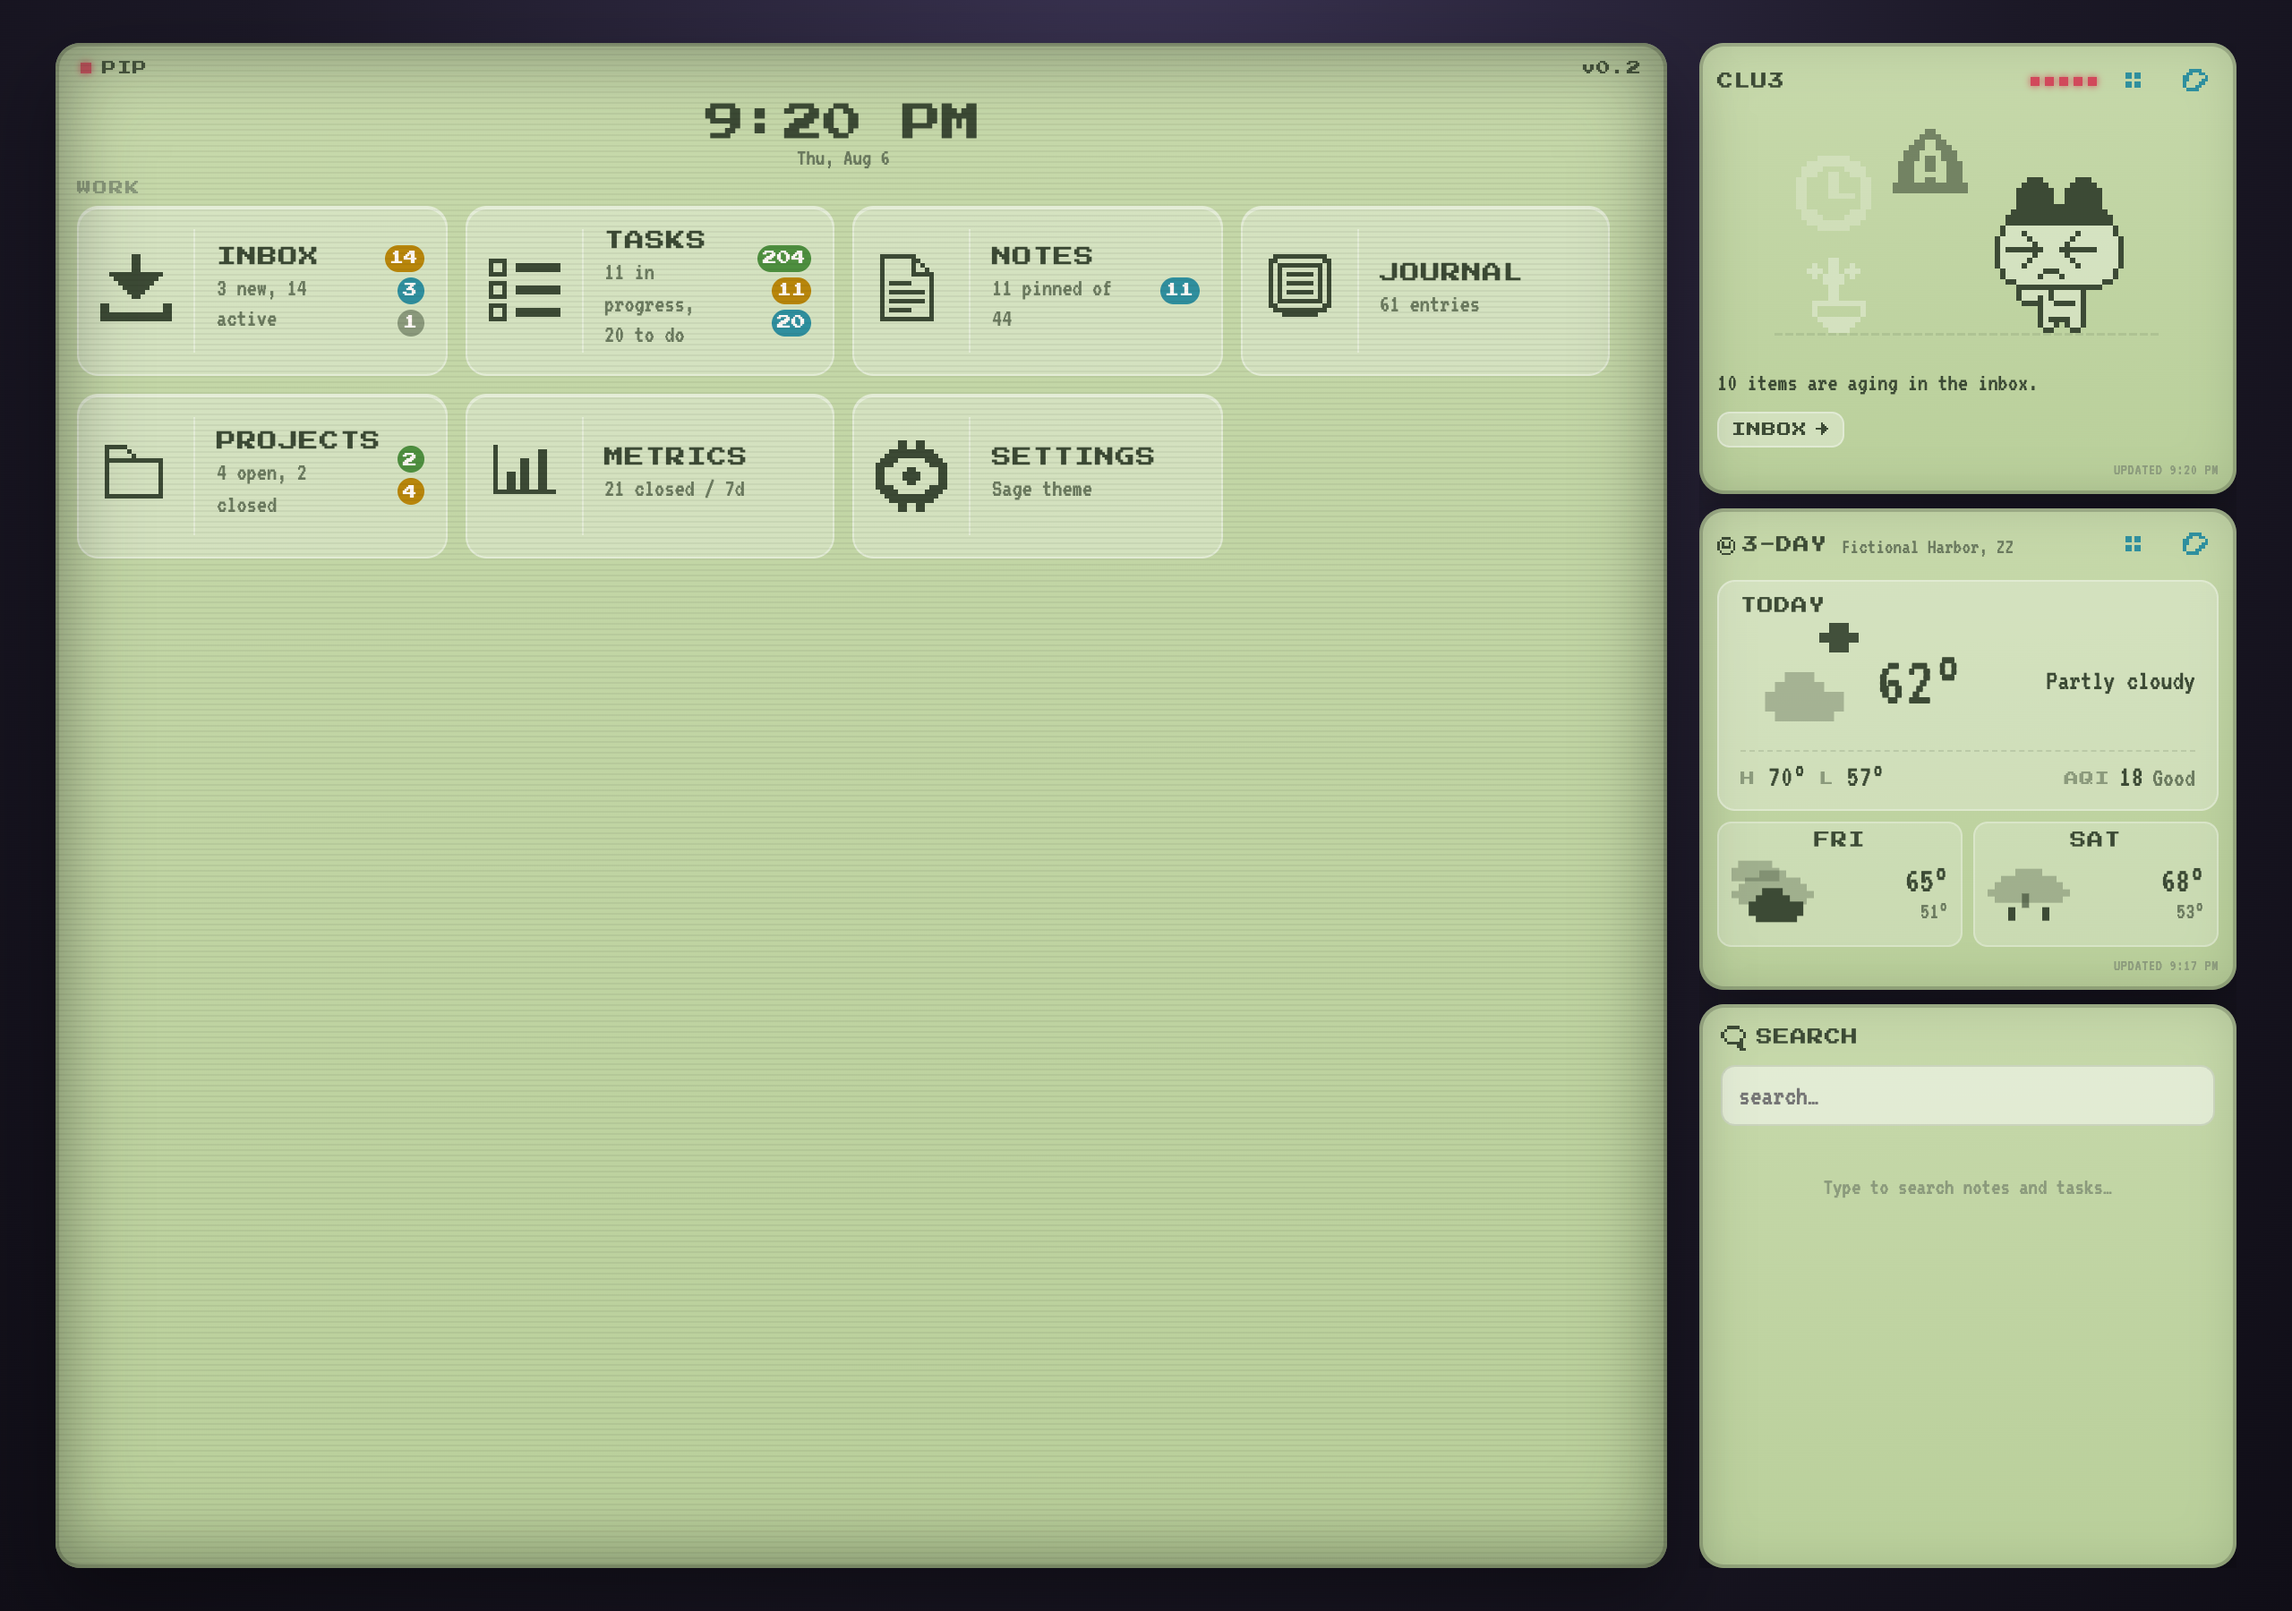
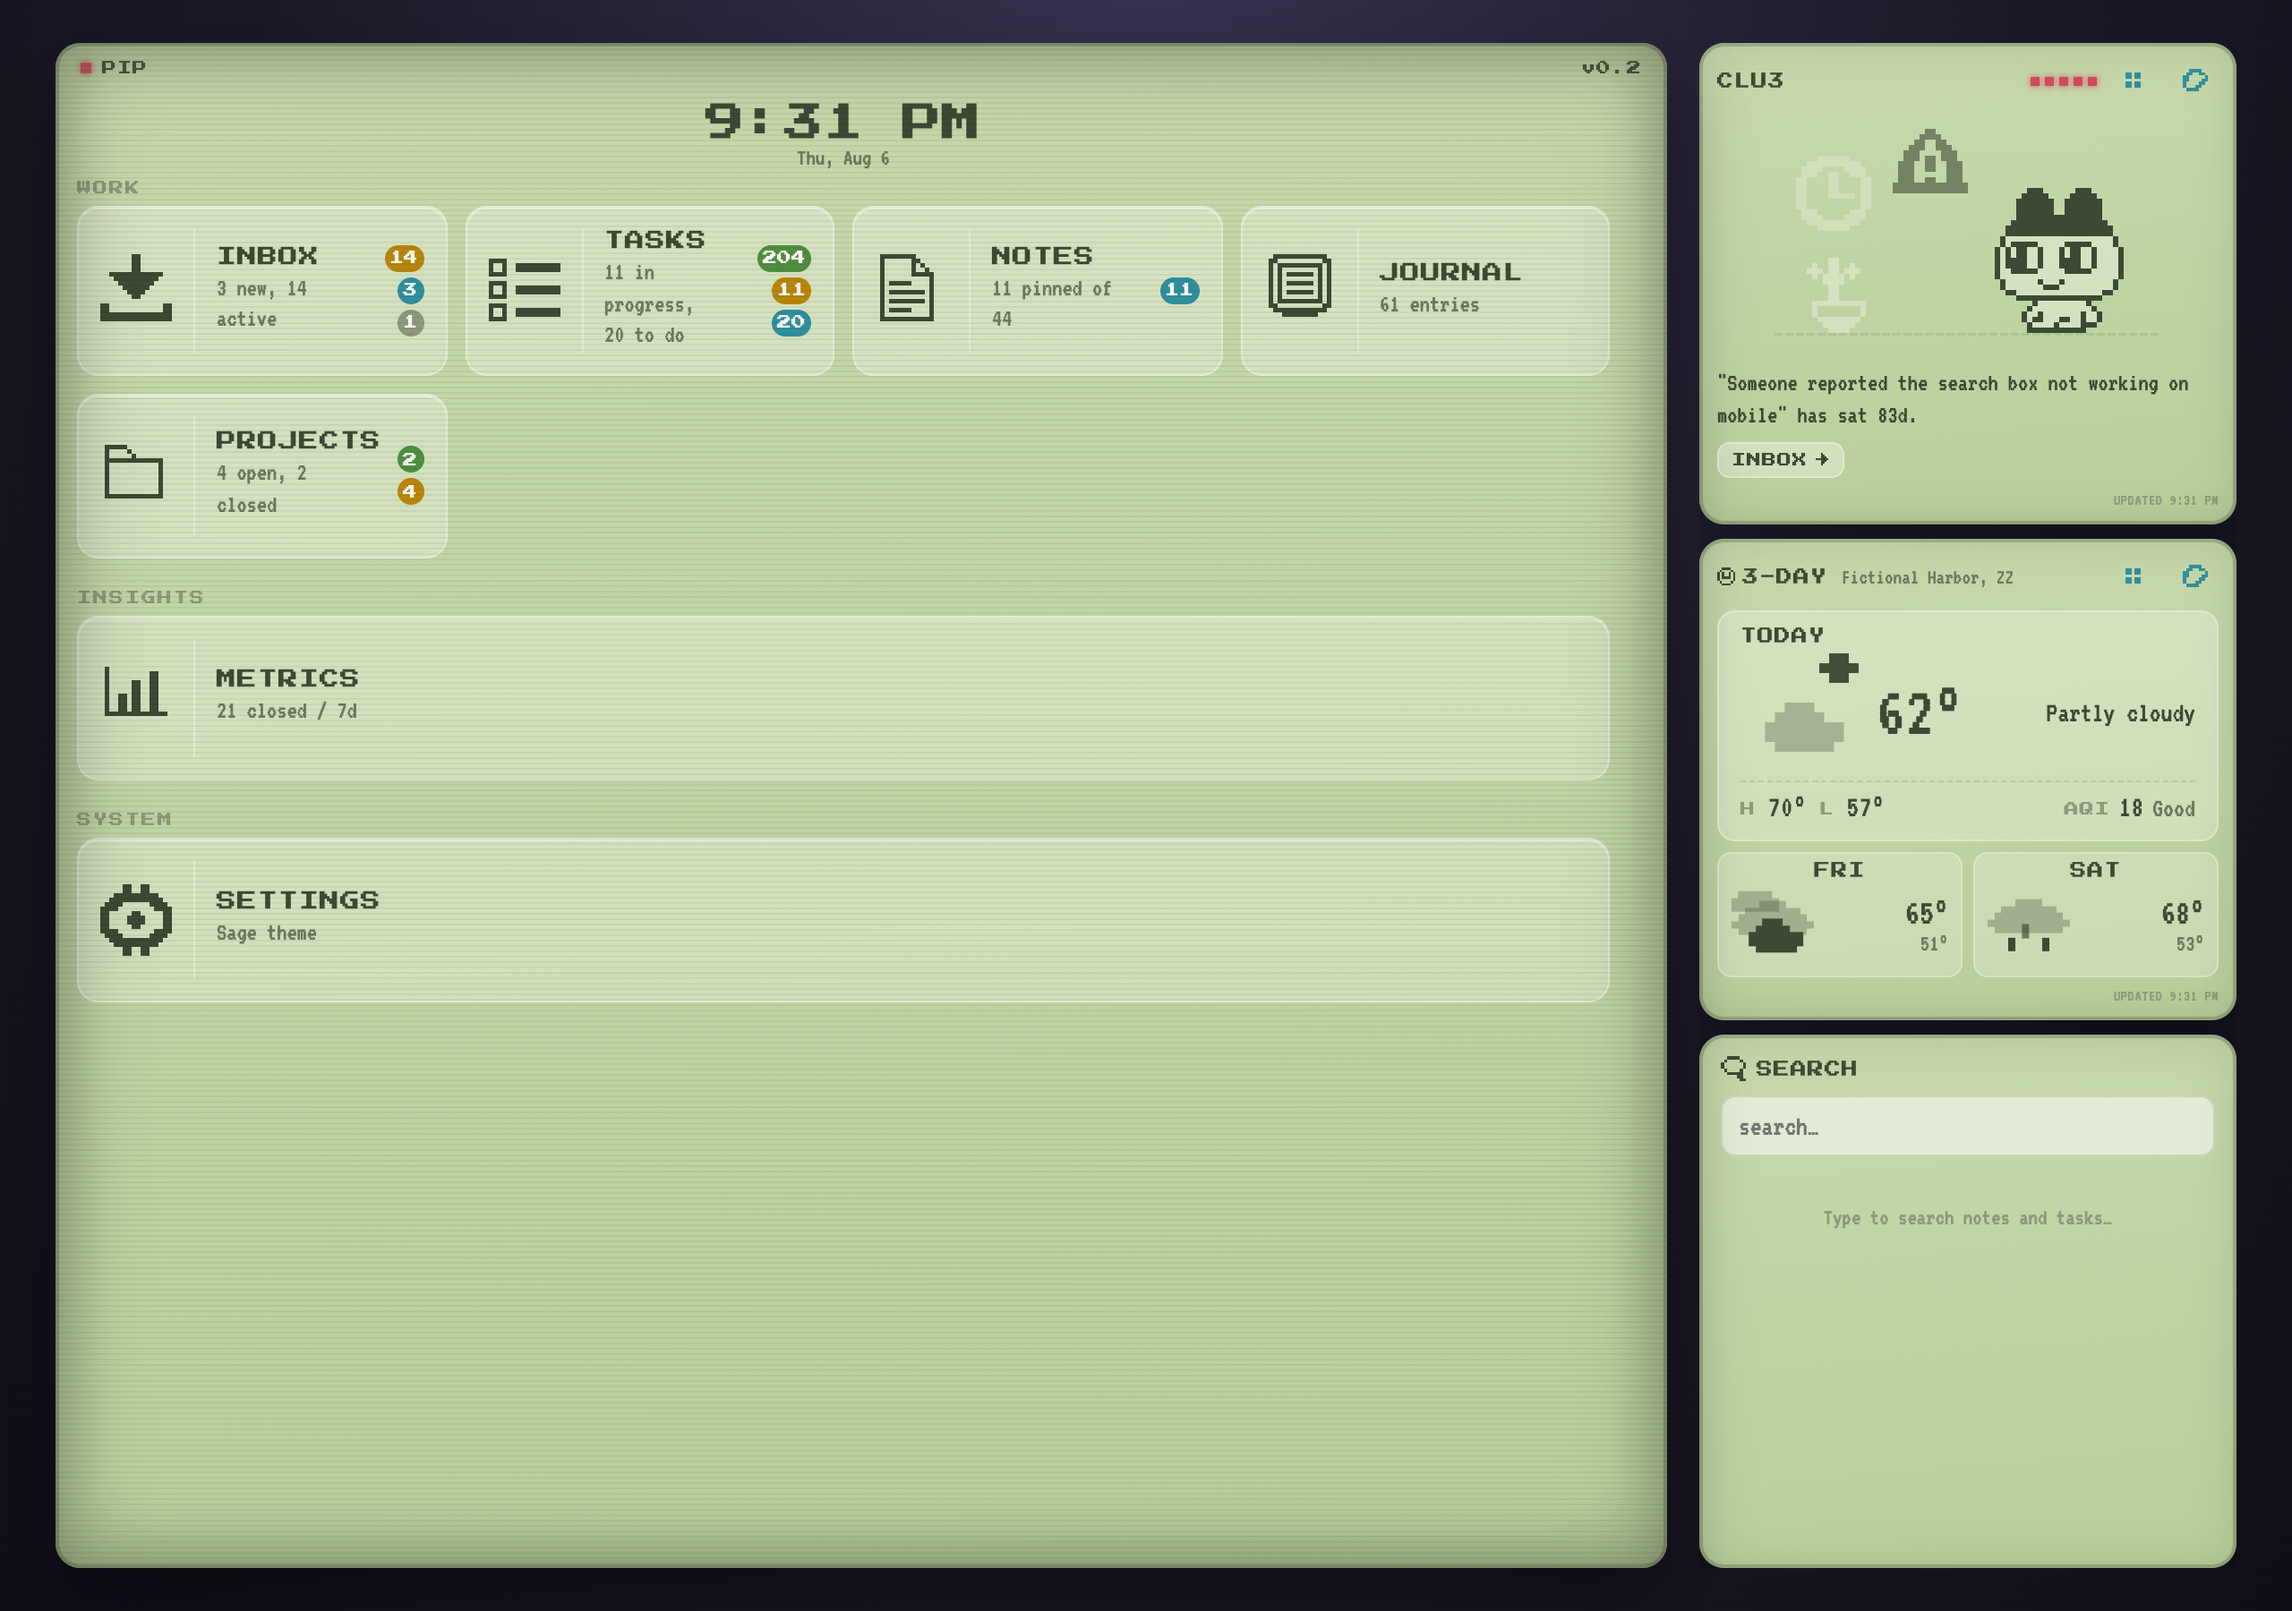
Fix dashboard tiles landing in one section on any fresh database
Every widget in a brand-new PIP install (a fresh clone, or the demo seeder)
was showing under one flat WORK section instead of the intended WORK /
INSIGHTS / SYSTEM grouping — METRICS and SETTINGS should stand apart. Cause:
server/db.js's seedIfEmpty() wrote widget rows without group_name, silently
falling back to the column's DEFAULT 'work' for every one of them. SEED_WIDGETS
has always had the correct values; the INSERT just never used them. This went
unnoticed on the one database anyone was actually looking at (data/pip.sqlite)
because a migration had already patched its rows directly — only a genuinely
fresh database ever went through the buggy INSERT.

Fixing the INSERT alone wasn't quite enough: seedIfEmpty() ran before
runMigrations(), so a database old enough to predate the group_name column
(which a migration adds) would hit "no such column" the moment the fixed
insert tried to write it. Reordered seeding to after migrations, for the
same reason SCHEMA_INDEXES already runs there (see the comment next to it) —
a migration-added column has to exist before anything references it.

tests/widget-seed.test.mjs pins a fresh database's widgets against
SEED_WIDGETS exactly (not just structurally); added to pip-mutation-check.js.
Also corrects tests/migrations.test.mjs's V10_SQL fixture, which was missing
a column real v10 databases already had (migration v3 added it) — invisible
before because nothing running between "seed" and "migrate" needed it yet.
[…]

Changed region(s): [[0.0312, 0.2178, 1.0, 0.7778], [0.7188, 0.0933, 1.0, 0.4667], [0.3438, 0.0622, 0.375, 0.0933]]

diff --git a/server/db.js b/server/db.js
@@ -26,10 +26,19 @@ db.pragma('foreign_keys = ON');
 function seedIfEmpty() {
   const widgetCount = db.prepare('SELECT COUNT(*) AS n FROM widgets').get().n;
   if (widgetCount === 0) {
+    // group_name has to be written explicitly — the column's own DEFAULT is
+    // 'work', so leaving it out doesn't merely lose the METRICS/SETTINGS
+    // grouping, it silently produces it wrong: every widget lands in one
+    // section instead of three. On the real database this went unnoticed
+    // because the row values had already been patched by a migration
+    // (`UPDATE widgets SET group_name = ...`) before this bug mattered; a
+    // brand new database — a fresh install, or the demo seeder — never runs
+    // that migration and goes straight through this INSERT instead.
     const insertWidget = db.prepare(
-      'INSERT INTO widgets (id, kind, title, glyph, sort_order) VALUES (?,?,?,?,?)'
+      'INSERT INTO widgets (id, kind, title, glyph, sort_order, group_name) VALUES (?,?,?,?,?,?)'
     );
-    for (const w of SEED_WIDGETS) insertWidget.run(w.id, w.kind, w.title, w.glyph, w.sort_order);
+    for (const w of SEED_WIDGETS)
+      insertWidget.run(w.id, w.kind, w.title, w.glyph, w.sort_order, w.group_name || 'work');
   }
   const projectCount = db.prepare('SELECT COUNT(*) AS n FROM projects').get().n;
   if (projectCount === 0) {
@@ -171,10 +180,14 @@ function runMigrations() {
 }
 
 db.exec(SCHEMA_SQL);
-seedIfEmpty();
 runMigrations();
-// After migrations, so an index can safely reference a column a migration
-// added. See the note on SCHEMA_INDEXES in schema.js.
+// After migrations, for the same reason SCHEMA_INDEXES runs after them (see
+// the note there): seedIfEmpty's widget insert writes group_name, and on a
+// database old enough to predate that column, SCHEMA_SQL's `CREATE TABLE IF
+// NOT EXISTS` leaves the existing (older-shaped) table alone — only
+// runMigrations() actually adds the column. Seeding first was fine right up
+// until the insert needed a column migrations hadn't added yet.
+seedIfEmpty();
 db.exec(SCHEMA_INDEXES);
 
 // PRAGMA data_version bumps whenever ANY connection to this file — including

diff --git a/scripts/pip-mutation-check.js b/scripts/pip-mutation-check.js
@@ -131,6 +131,14 @@ const MUTATIONS = [
     expect: 'tests/metrics.test.mjs'
   },
   {
+    name: 'a fresh database drops group_name when seeding widgets',
+    guards: 'every dashboard tile silently landing in one section on a new install',
+    file: 'server/db.js',
+    find: 'insertWidget.run(w.id, w.kind, w.title, w.glyph, w.sort_order, w.group_name',
+    replace: 'insertWidget.run(w.id, w.kind, w.title, w.glyph, w.sort_order, "work"',
+    expect: 'tests/widget-seed.test.mjs'
+  },
+  {
     name: 'a failing migration is swallowed instead of aborting',
     guards: 'a half-applied migration recorded as complete',
     file: 'server/db.js',
